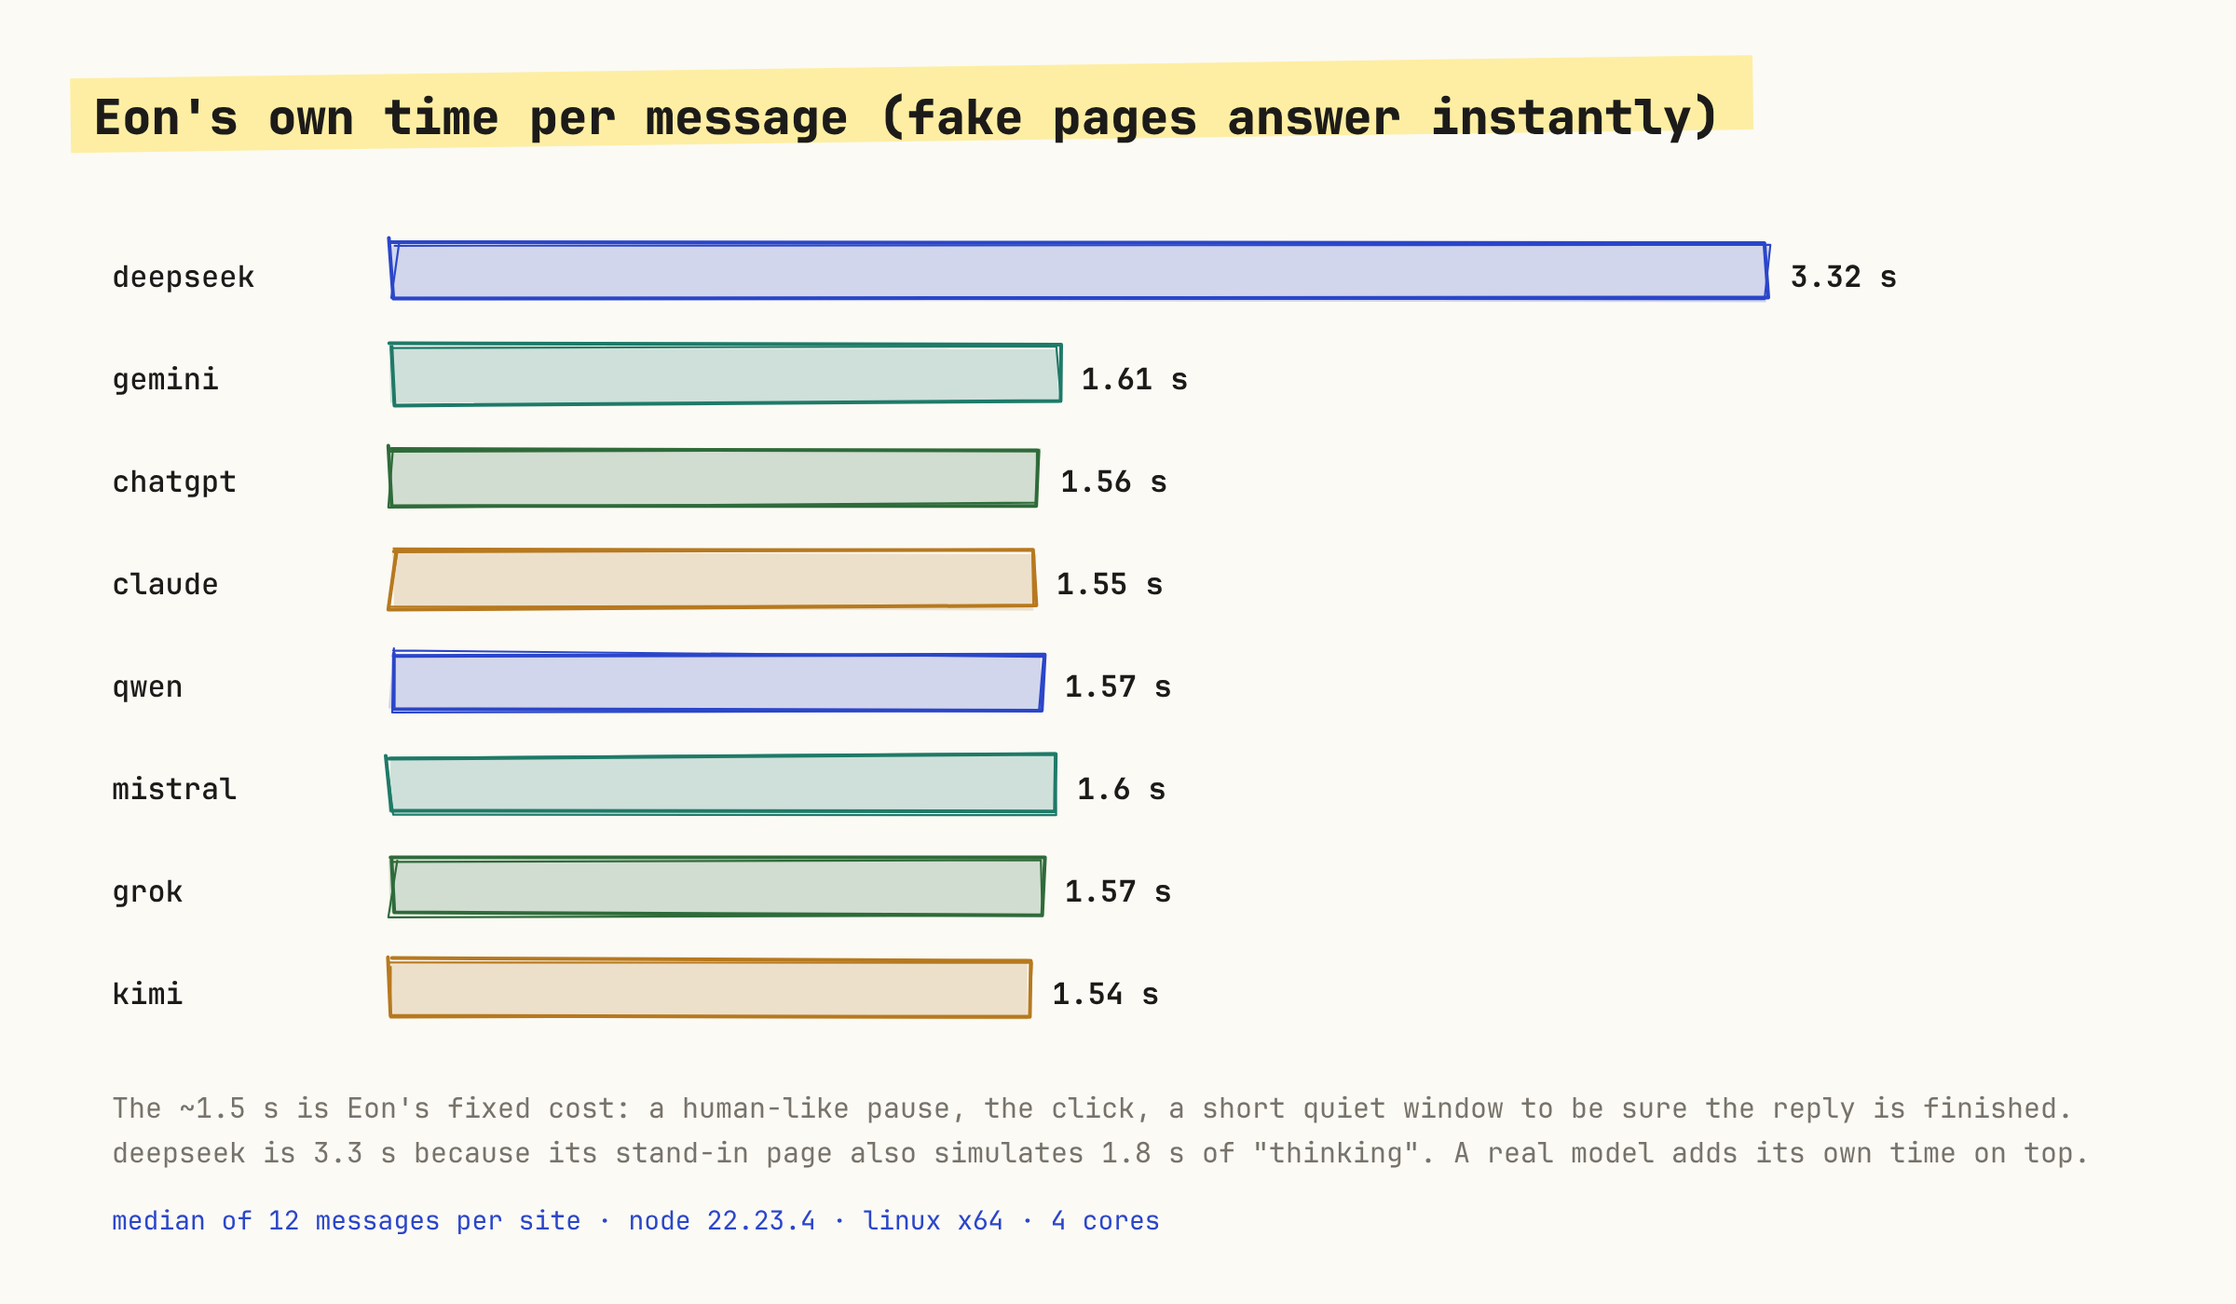
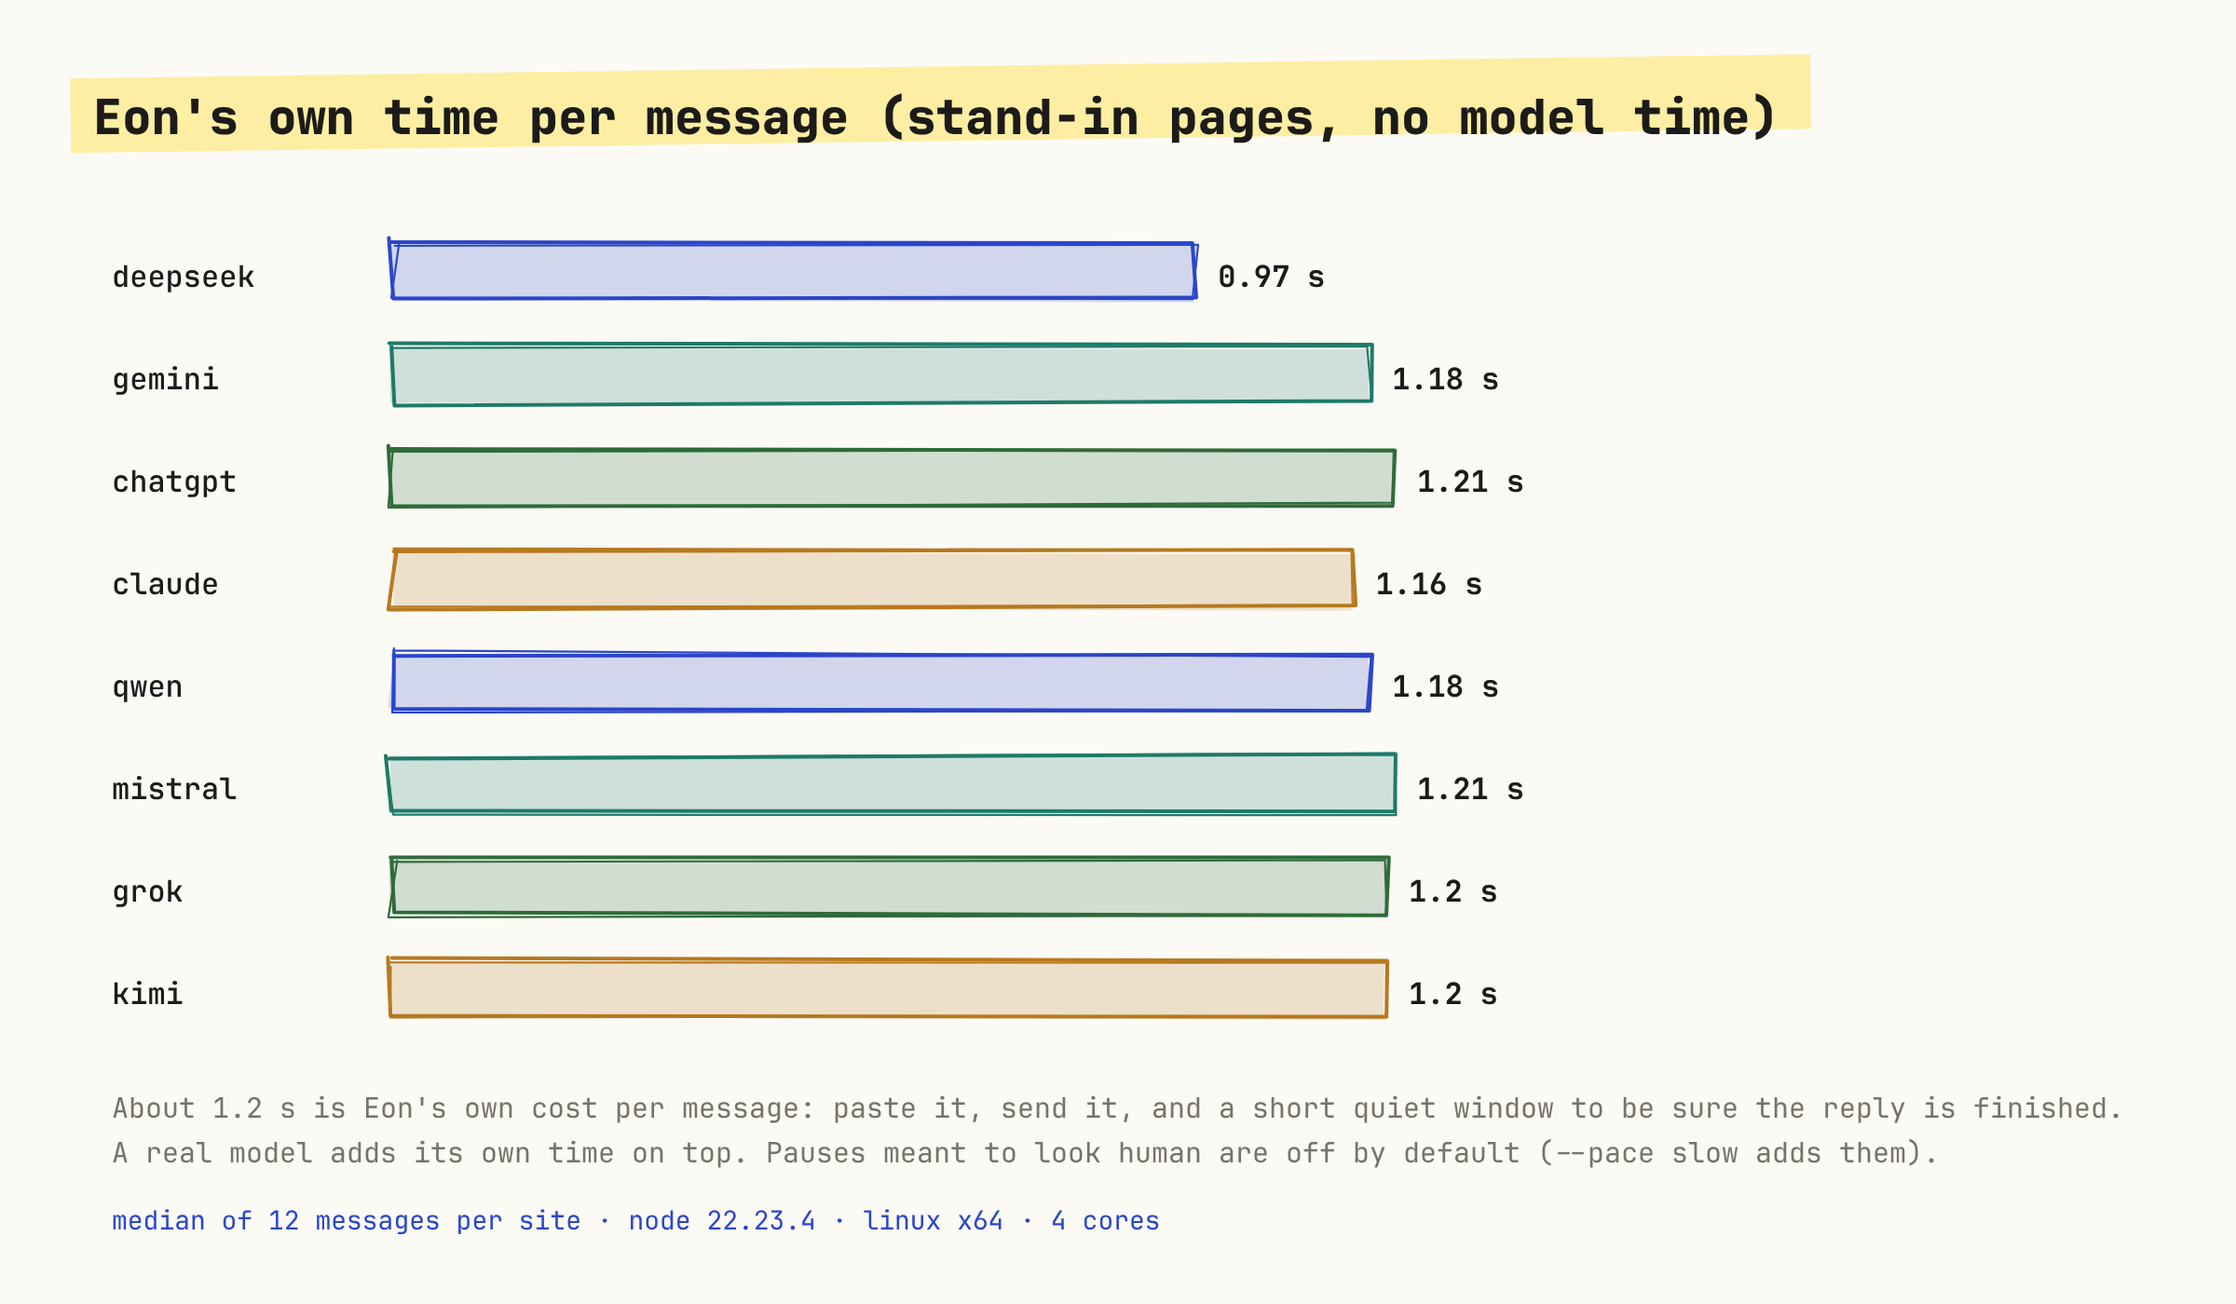
Drop the human-pause theatre: messages are pasted at once (--pace slow restores pauses); re-measure benchmarks without the simulated reasoning delay; version 0.8.0

diff --git a/src/providers/web-chat.js b/src/providers/web-chat.js
@@ -90,7 +90,9 @@ const SEND_GUESSES = [
 ];
 
 // "normal" pace is for a person; "slow" is gentler still; "fast" is for tests.
-const pace = () => ({ slow: 2, normal: 1, fast: 0.02 }[process.env.EON_PACE] ?? 1);
+// Messages are pasted in one go, like anyone with a ready-made message. "slow" adds human-like pauses (a mouse glide,
+// short random waits, a gap of a few seconds between messages) for people who want them; the default adds none.
+const pace = () => ({ slow: 1, normal: 0, fast: 0 }[process.env.EON_PACE] ?? 0);
 const sleep = (ms) => new Promise((r) => setTimeout(r, ms));
 const pause = (min, max) => sleep((min + Math.random() * (max - min)) * pace());
 
@@ -432,7 +434,7 @@ export class WebChat {
   /** Click the box like a person, put the message in as one paste, and check it all arrived. */
   async #type(loc, text) {
     const box = await loc.boundingBox().catch(() => null);
-    if (box) await this.page.mouse.move(box.x + box.width * (0.3 + Math.random() * 0.4), box.y + box.height / 2, { steps: 3 + Math.floor(Math.random() * 4) });
+    if (box && pace() > 0) await this.page.mouse.move(box.x + box.width * (0.3 + Math.random() * 0.4), box.y + box.height / 2, { steps: 3 + Math.floor(Math.random() * 4) });
     await this.#pause(80, 250);
     await loc.click({ delay: 20 + Math.random() * 60 });
     const clear = async () => { await this.page.keyboard.press('Control+A'); await this.page.keyboard.press('Delete'); };

diff --git a/test/eon.test.js b/test/eon.test.js
@@ -2161,3 +2161,20 @@ test('help is short by default, full with --all, and a mistyped command is caugh
   // a real task is never mistaken for a typo
   assert.doesNotMatch(eon('-p', 'fix the update button', '--mode', 'research', '--model', 'mock').stdout + eon('-p', 'fix the update button', '--mode', 'research', '--model', 'mock').stderr, /Did you mean/);
 });
+
+test('pace: no human-like pauses by default; --pace slow brings them back', async () => {
+  const { WebChat } = await import('../src/providers/web-chat.js');
+  const saved = process.env.EON_PACE;
+  try {
+    delete process.env.EON_PACE;
+    const lean = new WebChat('deepseek', { ui: new ScriptedUI() });
+    assert.equal(lean.minGapMs, 0, 'no minimum gap between messages');
+    assert.equal(lean.jitterMs, 0);
+    process.env.EON_PACE = 'normal';
+    assert.equal(new WebChat('deepseek', { ui: new ScriptedUI() }).minGapMs, 0);
+    process.env.EON_PACE = 'slow';
+    const slow = new WebChat('deepseek', { ui: new ScriptedUI() });
+    assert.equal(slow.minGapMs, 1500);
+    assert.equal(slow.jitterMs, 2500);
+  } finally { if (saved === undefined) delete process.env.EON_PACE; else process.env.EON_PACE = saved; }
+});

diff --git a/bin/eon.js b/bin/eon.js
@@ -115,7 +115,7 @@ Options
   --fast                quick level + accept mode: fewer round trips for small jobs
   --stdin               add text piped into eon to the task, e.g. git diff | eon -p "review this" --stdin
   --no-splash           skip the intro screen (or: /config splash off)
-  --pace slow|normal    how human-paced the browser is (default normal)
+  --pace slow           add human-like pauses between steps (default: none; messages are pasted at once)
   --output-format json  with -p: print one JSON result (needs --mode autonomous or research)
   --script, --review-script, --research-script <file.json>   scripted replies for the "mock" model (demos)
 `;

diff --git a/tools/charts.py b/tools/charts.py
@@ -18,12 +18,12 @@ def bars(s, x0, y0, w, h, items, unit, vmax, colors):
 
 # 1. per message, per site
 s = Sketch(1200, 700, seed=21)
-s.title('Eon\'s own time per message (fake pages answer instantly)')
+s.title('Eon\'s own time per message (stand-in pages, no model time)')
 sites = d['perSite']
 items = [(k, v['median']) for k, v in sites.items()]
-bars(s, 60, 120, 1080, 440, items, 's', 4.0, [BLUE, TEAL, GREEN, AMBER])
-s.text(60, 600, 'The ~1.5 s is Eon\'s fixed cost: a human-like pause, the click, a short quiet window to be sure the reply is finished.', 15, GREY)
-s.text(60, 624, 'deepseek is 3.3 s because its stand-in page also simulates 1.8 s of "thinking". A real model adds its own time on top.', 15, GREY)
+bars(s, 60, 120, 1080, 440, items, 's', 2.0, [BLUE, TEAL, GREEN, AMBER])
+s.text(60, 600, 'About 1.2 s is Eon\'s own cost per message: paste it, send it, and a short quiet window to be sure the reply is finished.', 15, GREY)
+s.text(60, 624, 'A real model adds its own time on top. Pauses meant to look human are off by default (--pace slow adds them).', 15, GREY)
 s.text(60, 660, f'median of {list(sites.values())[0]["n"]} messages per site · node {d["node"]} · {d["platform"]} · {d["cpus"]} cores', 14, BLUE)
 s.save('bench-driver')
 

diff --git a/tools/diagrams.py b/tools/diagrams.py
@@ -57,6 +57,6 @@ s.node(60, 480, 340, 130, 'human check or login page', ['Eon never solves it. It
 s.node(460, 480, 300, 130, 'you skip it', ['with one model Eon stops', 'right away. It is not a', 'limit, so no 10 minute wait'])
 s.arrow([(400, 545), (460, 545)])
 s.node(860, 480, 300, 130, 'message not taken', ['tries Enter, the Send button,', 'Ctrl+Enter, then asks you:', 'wait, try again, or skip'])
-s.text(60, 700, 'Everything here is paced like a person: short random pauses, one message at a time, no parallel tabs on one account.', 15, BLUE)
+s.text(60, 700, 'Eon sends one message at a time and never opens parallel tabs on one account.', 15, BLUE)
 s.text(60, 726, 'Eon does not try to hide that it is automated or get around a limit; it hands the decision back to you.', 15, GREY)
 s.save('fallback')

diff --git a/docs/benchmarks.md b/docs/benchmarks.md
@@ -4,12 +4,12 @@ These are measurements of **Eon itself**, not of any model. Chat sites and model
 
 ## What is measured, and how
 
-`node tools/bench.mjs` (then `python3 tools/charts.py` for the pictures) runs on the built-in fake chat pages, which answer instantly, so what is left is Eon's own waiting and polling.
+`node tools/bench.mjs` (then `python3 tools/charts.py` for the pictures) runs on the built-in stand-in chat pages with no model behind them, so what is left is Eon's own work and polling.
 
 | measure | result | how |
 |---|---|---|
-| start-up (`eon --help`) | **72 ms** median | 15 runs |
-| driver time per message | **about 1.5 s** on 7 of 8 stand-in sites, 3.3 s on the DeepSeek stand-in | median of 12 short messages per site; the DeepSeek page also simulates 1.8 s of "thinking" |
+| start-up (`eon --help`) | **70 ms** median | 15 runs |
+| driver time per message | **about 1.2 s** (1.0 to 1.2 s across the 8 stand-in sites) | median of 12 short messages per site |
 | model messages for a one-line fix | **3** at focused level, **1** at quick level | a scripted model that answers in the fewest messages the rules allow |
 | automated tests | **127** (unit, real terminal, real browser) | `npm test` |
 
@@ -21,8 +21,8 @@ Machine: Linux x64, 4 cores, Node 22. Re-run on yours; the figures move with the
 
 ## What they mean in practice
 
-- A task of *N* messages costs about *1.5 s × N* of Eon overhead plus the model's own time. Most of a real run is the model writing its reply, which Eon cannot speed up. What Eon can do is need fewer messages: skills and the task brief put the recipe in the first message, and `--fast` skips the plan for small edits.
-- The 1.5 s is deliberate: a short human-like pause, the click, and a quiet window so a reply that is still being written is not cut off. It is not a limit of the browser.
+- A task of *N* messages costs about *1.2 s × N* of Eon overhead plus the model's own time. Most of a real run is the model writing its reply, which Eon cannot speed up. What Eon can do is need fewer messages: skills and the task brief put the recipe in the first message, and `--fast` skips the plan for small edits.
+- The 1.2 s is paste, send and a short quiet window (0.5 to 0.8 s) so a reply that is still being written is not cut off. Pauses meant to look human are off by default; `--pace slow` adds them back.
 
 ## What is not measured
 
@@ -30,6 +30,7 @@ Machine: Linux x64, 4 cores, Node 22. Re-run on yours; the figures move with the
 - Model quality: whether a model plans well or edits correctly. That depends on the model you choose.
 - A comparison with other agents. Different models and tasks make such numbers misleading, so none are claimed.
 
-## An honest note on one change
+## Two honest notes on changes
 
-Version 0.7.0 made Eon wait for a Send button to wake up instead of falling back to Enter. In tests with very short pauses this removed an occasional 5 s stall on sites where Enter does not send. At the normal pace the medians are the same before and after (1.5 s), so it is a safety net, not a speed-up.
+- Version 0.7.0 made Eon wait for a Send button to wake up instead of falling back to Enter. With very short pauses this removed an occasional 5 s stall on sites where Enter does not send; at the old pace the medians were the same before and after, so it was a safety net, not a speed-up.
+- Version 0.8.0 removed the human-like pauses (mouse glide, short random waits, a minimum gap of 1.5 to 4 s between messages). The median per message went from about 1.5 s to about 1.2 s; the gap mattered more in real use, because a message sent soon after the previous one used to wait out the rest of it. The trade-off is that automation is slightly easier for a site to notice.

diff --git a/docs/guide.md b/docs/guide.md
@@ -179,7 +179,7 @@ After a task finishes, your next message continues in the same session: same cha
 | `--allow "<cmd>"` | A command that may run without asking. Repeatable. |
 | `--allow-host <host>` | A documentation site that may be fetched without asking. Repeatable. |
 | `--in-place` | Use a new branch in your checkout instead of a separate worktree. |
-| `--pace slow\|normal` | How human-paced the browser is. |
+| `--pace slow` | Add human-like pauses (a mouse glide, short random waits, a few seconds between messages). Off by default: messages are pasted at once. |
 
 When a session ends, its branch is on the side. `/diff` shows it, `/merge` keeps it, `/discard` drops it. Nothing touches your files until you merge.
 
@@ -249,7 +249,7 @@ There is no API key. Eon drives a real browser window that you log in to once. A
 Eon tries to behave like a person using their own account:
 
 - **Your own browser.** If Chrome or Edge is installed, Eon starts it as a normal window with its own profile (`~/.eon/chrome`) and connects to it over a local debugging port. It is not started by an automation library, so the page is not told it is automated. Without Chrome or Edge, Eon falls back to Playwright's browser with the usual automation switches turned off. Set `EON_BROWSER=playwright` to force the fallback.
-- **Human pace.** Messages are pasted in one go, not typed key by key, with short random pauses and a random gap of a second or two between messages. `--pace slow` makes it gentler.
+- **Pasted, not performed.** Messages are pasted whole, like any ready-made message, one at a time and never in parallel tabs. Pauses meant to look human are off by default; `--pace slow` adds them.
 - **Hand-off, not workarounds.** If a site asks you to verify you are human, Eon stops, brings the window to the front, and asks you to solve it, or to use the next model. It does not solve checks, spoof a browser fingerprint or rotate identities.
 
 This cannot guarantee a site will not flag automation, and automating these chats may be against their terms. If a site blocks it, use another model in the list or a local model.
@@ -367,7 +367,7 @@ The model has three actions for this: `look` (ask the helper one precise questio
 
 A skill is a folder with a `SKILL.md`: a `name`, a one-line `description` saying when to use it, then the steps. Eon looks in `.eon/skills/` (this project), `~/.eon/skills/` (you) and its own `skills/` (built in); a project skill beats yours, which beats a built-in one. The model is shown only the names and one-liners; when a task matches it sends a `skill` action and receives the steps. You can also run one yourself with `/<name> <what to do>`. `/skills` lists them, `/skills new <name>` makes a starter file. A skill is guidance only: the plan gate and permissions still apply.
 
-`eon --fast` is `--level quick --mode accept`: edits under 20 lines in one file need no plan, and when a plan is needed you approve it once. It does not shorten the pauses between messages; that is `--pace`, and a human-like pace is part of not tripping a site's checks.
+`eon --fast` is `--level quick --mode accept`: edits under 20 lines in one file need no plan, and when a plan is needed you approve it once. It is about how many messages a job needs, not about waiting less.
 
 ## Task briefs
 

diff --git a/README.md b/README.md
@@ -65,11 +65,11 @@ The plan gate, where Eon keeps its files, and how it handles limits and checks a
 
 <p><img src="docs/img/bench-driver.png" width="49%"> <img src="docs/img/bench-messages.png" width="49%"></p>
 
-Eon's own overhead on built-in fake pages: about 1.5 s per message, 72 ms start-up, 3 model messages for a one-line fix at focused level and 1 at quick level. These measure Eon, not any model; method, caveats and what is *not* measured are in **[docs/benchmarks.md](docs/benchmarks.md)**.
+Eon's own overhead on built-in stand-in pages (no model time): about 1.2 s per message, 70 ms start-up, 3 model messages for a one-line fix at focused level and 1 at quick level. These measure Eon, not any model; method, caveats and what is *not* measured are in **[docs/benchmarks.md](docs/benchmarks.md)**.
 
 ## Questions
 
-**Will this get my account banned?** Eon automates a website with your own login, and many sites' terms forbid automated use, so there is a real risk that a site rate-limits or closes an account. Eon keeps it low and honest: one message at a time, short random pauses, no parallel tabs, a human check is never solved or hidden but handed to you, and it does not rotate accounts or bypass limits. It cannot promise a site will not object. Use an account you can afford to lose, keep sub-agents and `--rewrite` for when you need them (they send extra messages), or use a local model (`eon setup-local`), which has no account at risk.
+**Will this get my account banned?** Eon automates a website with your own login, and many sites' terms forbid automated use, so there is a real risk that a site rate-limits or closes an account. Eon keeps it low and honest: one message at a time, no parallel tabs, a human check is never solved or hidden but handed to you, and it does not rotate accounts or bypass limits. It pastes messages whole, like anyone with a ready-made message, and adds no theatrical pauses; that makes automation slightly easier to notice, so `--pace slow` restores human-like pauses if you want them. It cannot promise a site will not object. Use an account you can afford to lose, keep sub-agents and `--rewrite` for when you need them (they send extra messages), or use a local model (`eon setup-local`), which has no account at risk.
 
 **Do MCP servers, skills and hooks change that?** No. They run on your computer and never touch the chat site. Only extra *messages* (sub-agents, the picture helper, `--rewrite`) add to what a site sees.
 

diff --git a/docs/architecture.md b/docs/architecture.md
@@ -32,7 +32,7 @@ The gate is code, not a request to the model: an edit action without an approved
 
 ![Limits, checks and logins](img/fallback.png)
 
-Eon paces itself like a person and hands every decision about checks and limits back to you. It does not solve checks, rotate accounts or hide that it is automated beyond what a normal browser does.
+Eon sends one message at a time and hands every decision about checks and limits back to you. It does not solve checks, rotate accounts or hide that it is automated beyond what a normal browser does.
 
 ## Extensions
 

diff --git a/CHANGELOG.md b/CHANGELOG.md
@@ -2,6 +2,10 @@
 
 Versions follow `package.json`. Each release is published automatically from `main`.
 
+## 0.8.0
+- No more theatre: messages are pasted at once with no mouse glide, random pauses or minimum gap between messages (`--pace slow` brings them back). About 1.2 s of Eon time per message instead of 1.5 s.
+- Benchmarks and charts re-measured without the simulated reasoning delay.
+
 ## 0.7.1
 - Documentation: new README, architecture and benchmarks pages, FAQ on account risk, issue template.
 
